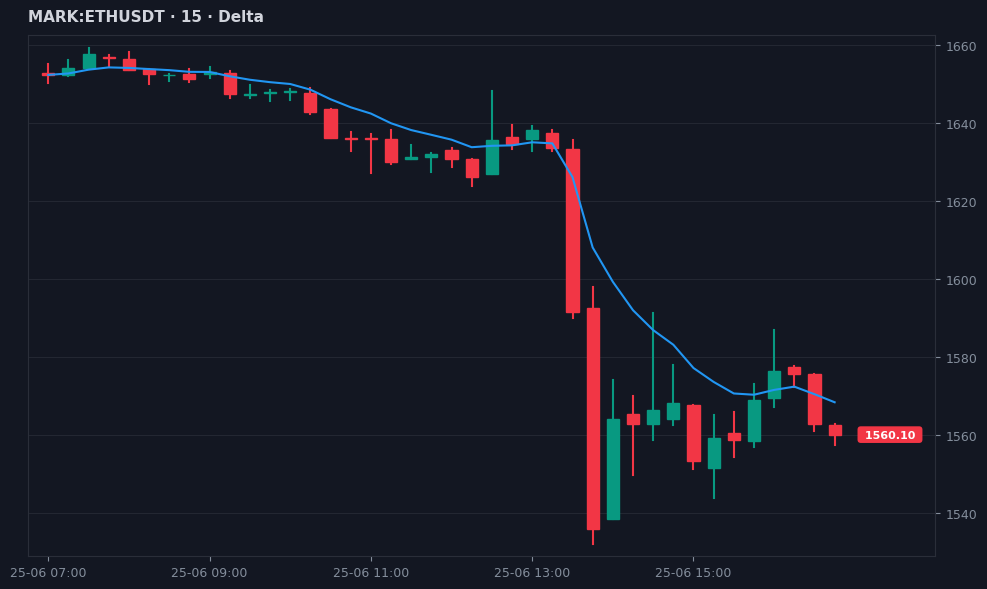
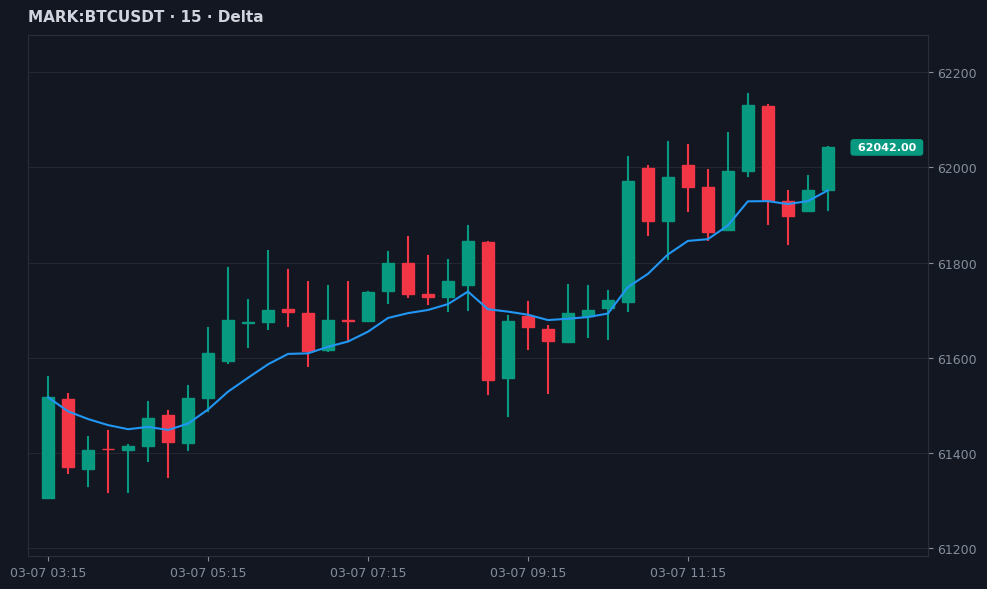
improved logic

diff --git a/live_trade.py b/live_trade.py
@@ -16,6 +16,7 @@ Improvements integrated:
 
 import ccxt
 import csv
+import json
 import os
 import sys
 try:
@@ -38,6 +39,28 @@ from state_manager import (
     reconcile_positions,
     save_seen_grabs, load_seen_grabs,
 )
+
+# ─── Broadcast dedup (persisted across restarts) ─────────────────────────────
+
+BROADCAST_SEEN_FILE = "seen_broadcasts.json"
+
+def _load_broadcast_seen() -> set:
+    try:
+        with open(BROADCAST_SEEN_FILE, "r") as f:
+            data = json.load(f)
+            # Prune entries older than 24h
+            now_ts = time.time()
+            fresh = {k: v for k, v in data.items() if now_ts - v < 86400}
+            return set(fresh.keys()), fresh
+    except Exception:
+        return set(), {}
+
+def _save_broadcast_seen(seen_dict: dict):
+    try:
+        with open(BROADCAST_SEEN_FILE, "w") as f:
+            json.dump(seen_dict, f)
+    except Exception:
+        pass
 from back_test import (
     add_emas, detect_liquidity_grabs, detect_bos, detect_fvg,
     SYMBOL_CONFIG, MIN_RR, RISK_PER_TRADE, ACCOUNT_SIZE,
@@ -911,6 +934,8 @@ def main():
 
     log.info("\nWarm-start done. Watching for NEW signals only.\n")
     fetch_failures = {}
+    broadcast_seen, broadcast_seen_dict = _load_broadcast_seen()
+    log.info(f"Loaded {len(broadcast_seen)} broadcast-seen entries from disk.")
 
     # Main loop
     pending_orders = {}
@@ -1020,6 +1045,25 @@ def main():
             if lots < 1:
                 log.info(f"  {sym_key}: lot size < 1, skip.")
                 continue
+
+            rr   = round(abs(tp - entry) / abs(entry - sl), 1) if abs(entry - sl) > 0 else 2.0
+
+            # Deduplicate: only broadcast each signal once (survives restarts)
+            _sig_id = f"{sym_key}_{side}_{round(entry, 0)}_{round(sl, 0)}"
+            if _sig_id in broadcast_seen:
+                log.info(f"  {sym_key}: signal already broadcast ({_sig_id}), skipping.")
+            else:
+                # Broadcast signal to channels and send Telegram alert
+                try:
+                    from bot_server import send_crypto_signal
+                    send_crypto_signal(sym_key, side, lots, entry, sl, tp, rr, 10, contract_size)
+                except Exception as e:
+                    log.warning(f"  broadcast failed: {e}")
+                    tg(f"🔍 <b>SIGNAL</b>: {sym_key} {side.upper()}\nEntry: {entry:.2f} | SL: {sl:.2f} | TP: {tp:.2f} (RR 1:{rr})")
+                # Mark as broadcast
+                broadcast_seen.add(_sig_id)
+                broadcast_seen_dict[_sig_id] = time.time()
+                _save_broadcast_seen(broadcast_seen_dict)
 
             log.info(f"  ENTERING {sym_key} {side.upper()} {lots}L | entry~{entry:.2f} SL={sl:.2f} TP={tp:.2f}")
             try:

diff --git a/options_monitor.py b/options_monitor.py
@@ -330,4 +330,3 @@ def start_monitor(fyers_getter, engine, notify_fn) -> threading.Event:
 
 
 # Fix missing import
-from typing import Optional
